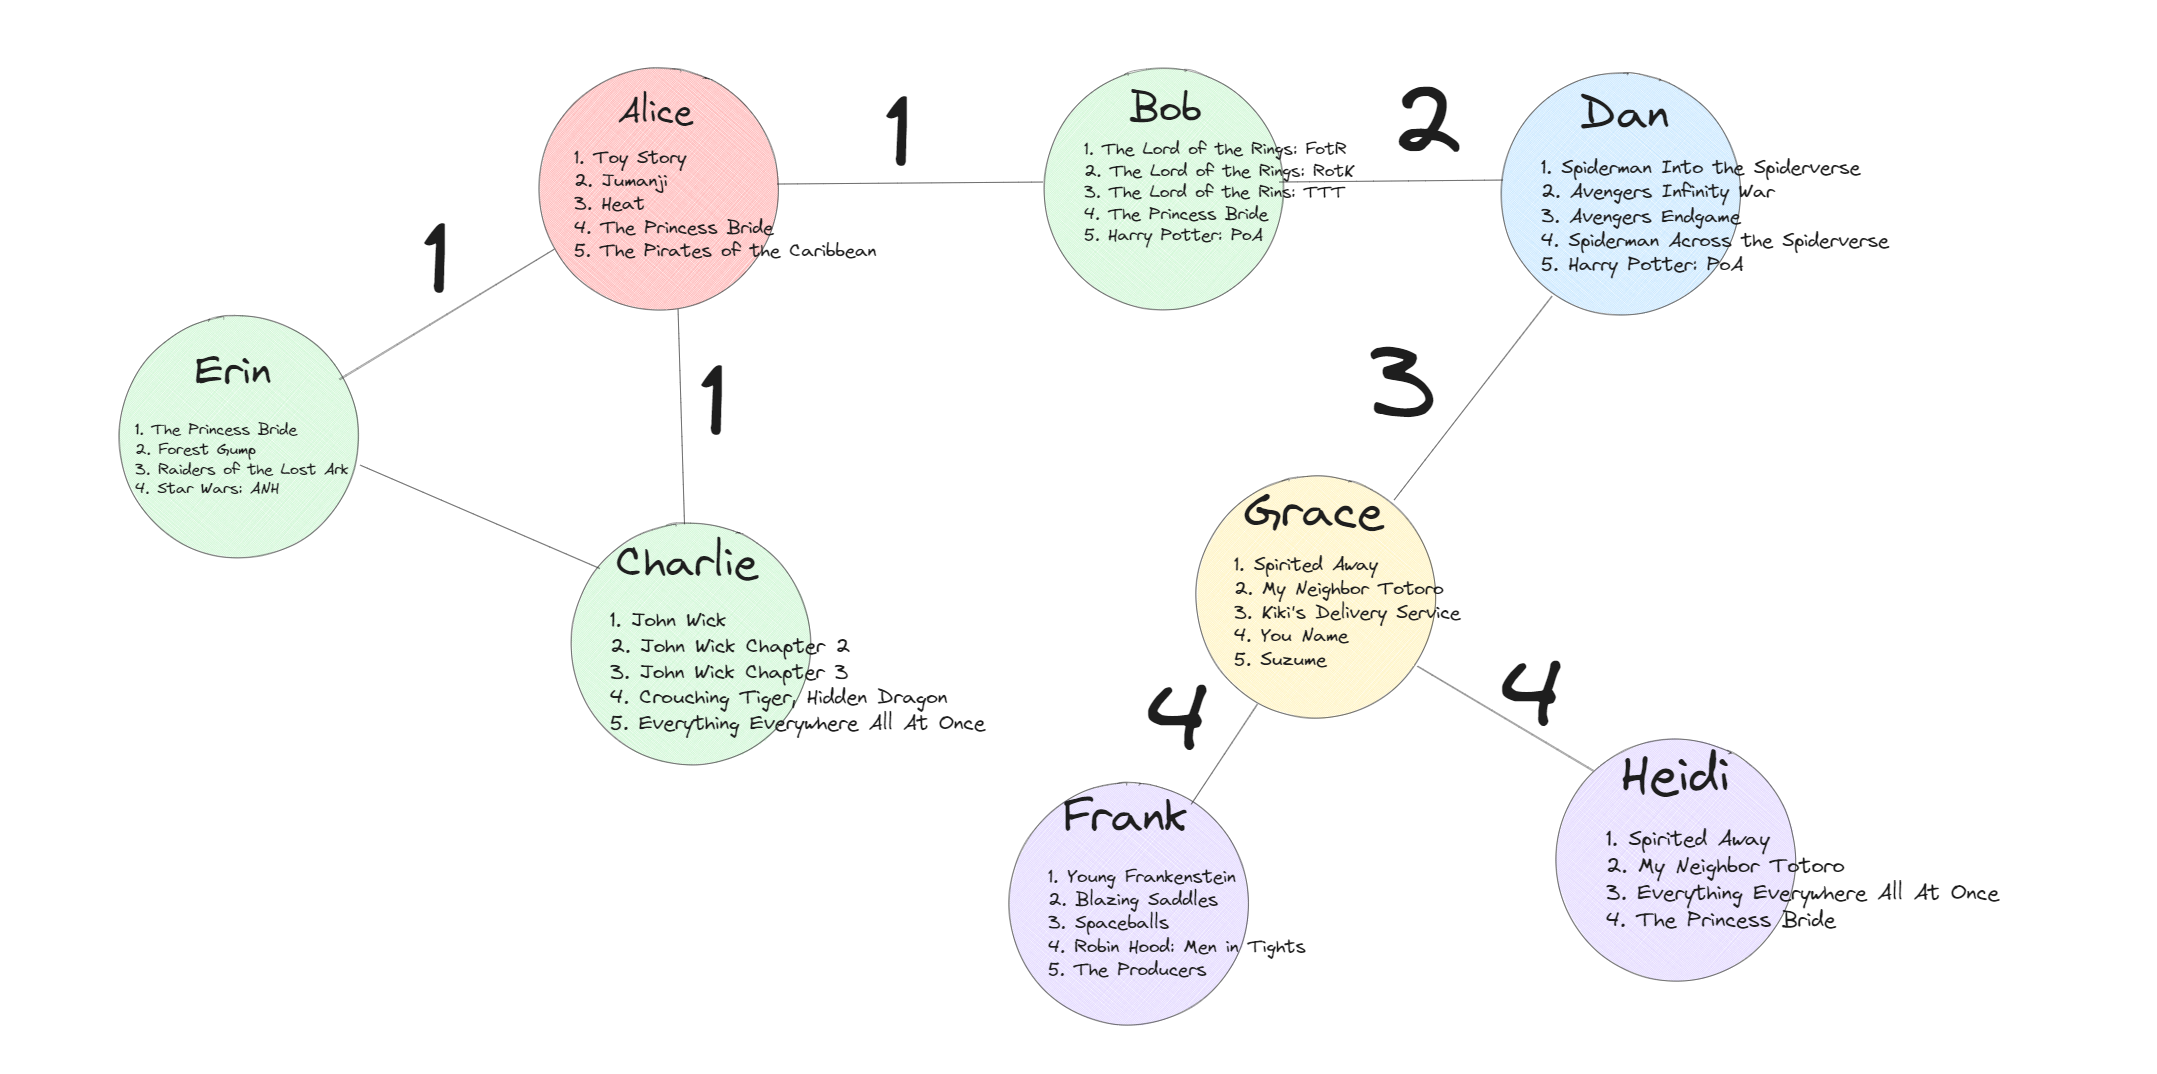
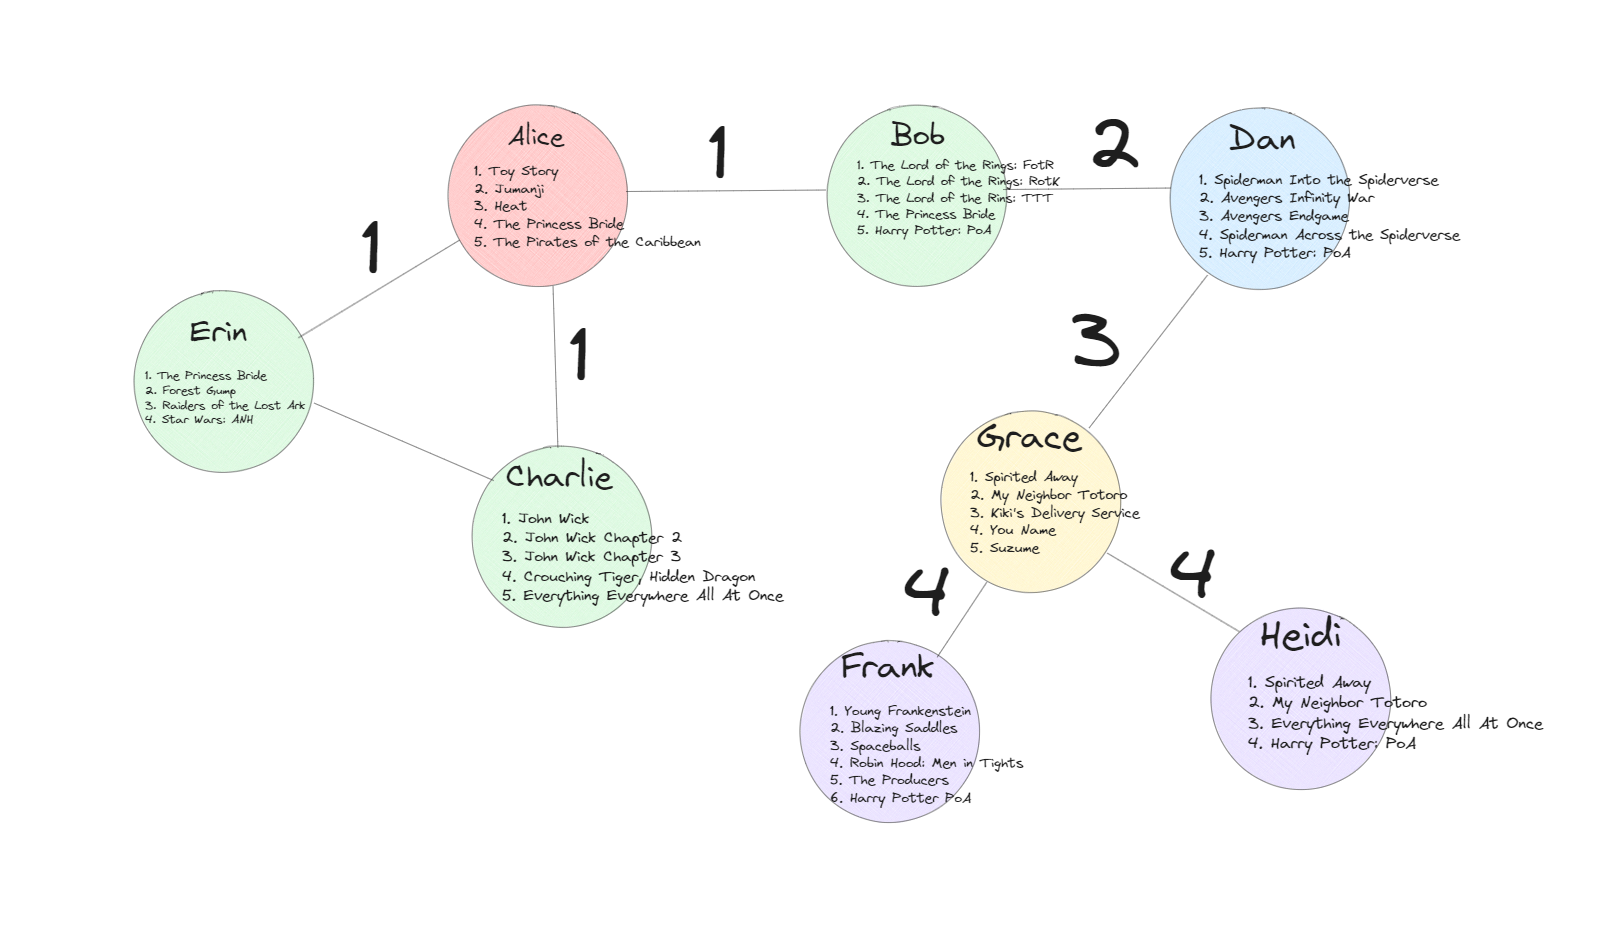
add walkthrough for traversing full network and add final throughts

diff --git a/test.py b/test.py
@@ -47,11 +47,12 @@ Frank.add_favorite_movie("Blazing Saddle")
 Frank.add_favorite_movie("Spaceballs")
 Frank.add_favorite_movie("Robin Hood: Men in Tights")
 Frank.add_favorite_movie("The Producers")
+Frank.add_favorite_movie("Harry Potter and the Prisoner of Azkaban")
 
 Heidi.add_favorite_movie("Spirited Away")
 Heidi.add_favorite_movie("My Neighbor Totoro")
 Heidi.add_favorite_movie("Everything Everywhere All At Once")
-Heidi.add_favorite_movie("The Princess Bride")
+Heidi.add_favorite_movie("Harry Potter and the Prisoner of Azkaban")
 
 # Add establish friendships
 Alice.add_friend(Erin)
@@ -63,4 +64,5 @@ Grace.add_friend(Frank)
 Grace.add_friend(Heidi)
 
 
-print(Alice.get_network_favorite_movie(3))
+print(Alice.get_network_favorite_movie(3)) # The Princess Bride
+print(Alice.get_network_favorite_movie()) # Harry Potter and the Prisoner of Azkaban

diff --git a/REAME.md b/REAME.md
@@ -54,12 +54,12 @@
         return keys[values.index(max(values))]
 ```
 
-- We can easily refactor the above code to take in an additional parameter, degrees
+- We can easily refactor the above code to take in an optional parameter, degree, defaulting to infinity if we want to search the whole network
 - Instead of enquing user objects, we can enque tuples where we include the current degree of separation from the user.
 - During the BFT, we can add a condition where we only enque users where the current degree of separation is less than the passed in argument
 
 ```python
-    def get_network_favorite_movie(degree):
+    def get_network_favorite_movie(degree=float("inf")):
         favorite_movies_counter = {}
         queue = deque()
         visited = set()
@@ -92,6 +92,8 @@
   - m is the number of unique movies in all the favorite movie lists
 
 ## Example
+
+### This section will walk you through the test example in test.py
 
 ![Example Network](image.png)
 
@@ -253,6 +255,123 @@
 
 - Now the queue is empty and we just need to go through favorite_movie_counter and find the movie that occurs most often, in this case The Princess Bride
 
+- We can continue this example to demonstrate searching through the whole network by picking up after processing Grace by enquing her friends
+
+```
+    favorite_movie_counter = {
+        Toy Story: 1,
+        Jumanji: 1,
+        Heat: 1,
+        The Princess Bride: 3,
+        The Pirates of the Caribbean: 1,
+        Forest Gump: 1,
+        Raiders of the Lost Ark: 1,
+        Star Wars ANH: 1,
+        John Wick: 1,
+        John Wick Chapter 2: 1,
+        John Wick Chapter 3: 1,
+        Crouching Tiger, Hidden Dragon: 1,
+        Everything, Everywhere, All At Once: 1,
+        The Lord of the Rings FotR: 1,
+        The Lord of the Rings RotK: 1,
+        The Lord of the Rings TTT: 1,
+        Harry Potter PoA: 2,
+        Spiderman Into the Spiderverse: 1,
+        Avengers Infinity War: 1,
+        Avengers Endgame: 1,
+        Spiderman Across the Spiderverse: 1,
+        Spirited Away: 1,
+        My Neighbor Totoro: 1,
+        Kiki's Delivery Service: 1,
+        Your Name: 1,
+        Suzume: 1
+    }
+    queue = ((4, Frank), (4, Heidi))
+    visited = {Alice, Erin, Charlie, Bob, Dan, Grace, Frank, Heidi}
+```
+
+- After processing Frank
+
+```
+    favorite_movie_counter = {
+        Toy Story: 1,
+        Jumanji: 1,
+        Heat: 1,
+        The Princess Bride: 3,
+        The Pirates of the Caribbean: 1,
+        Forest Gump: 1,
+        Raiders of the Lost Ark: 1,
+        Star Wars ANH: 1,
+        John Wick: 1,
+        John Wick Chapter 2: 1,
+        John Wick Chapter 3: 1,
+        Crouching Tiger, Hidden Dragon: 1,
+        Everything, Everywhere, All At Once: 1,
+        The Lord of the Rings FotR: 1,
+        The Lord of the Rings RotK: 1,
+        The Lord of the Rings TTT: 1,
+        Harry Potter PoA: 3,
+        Spiderman Into the Spiderverse: 1,
+        Avengers Infinity War: 1,
+        Avengers Endgame: 1,
+        Spiderman Across the Spiderverse: 1,
+        Spirited Away: 1,
+        My Neighbor Totoro: 1,
+        Kiki's Delivery Service: 1,
+        Your Name: 1,
+        Suzume: 1,
+        Young Frankenstein: 1,
+        Blazing Saddles: 1,
+        Spaceballs: 1,
+        Robinhood Men in Tights: 1,
+        The Producers: 1
+    }
+    queue = ((4, Heidi))
+    visited = {Alice, Erin, Charlie, Bob, Dan, Grace, Frank, Heidi}
+```
+
+- Finally Heidi
+
+```
+    favorite_movie_counter = {
+        Toy Story: 1,
+        Jumanji: 1,
+        Heat: 1,
+        The Princess Bride: 3,
+        The Pirates of the Caribbean: 1,
+        Forest Gump: 1,
+        Raiders of the Lost Ark: 1,
+        Star Wars ANH: 1,
+        John Wick: 1,
+        John Wick Chapter 2: 1,
+        John Wick Chapter 3: 1,
+        Crouching Tiger, Hidden Dragon: 1,
+        Everything, Everywhere, All At Once: 2,
+        The Lord of the Rings FotR: 1,
+        The Lord of the Rings RotK: 1,
+        The Lord of the Rings TTT: 1,
+        Harry Potter PoA: 4,
+        Spiderman Into the Spiderverse: 1,
+        Avengers Infinity War: 1,
+        Avengers Endgame: 1,
+        Spiderman Across the Spiderverse: 1,
+        Spirited Away: 2,
+        My Neighbor Totoro: 2,
+        Kiki's Delivery Service: 1,
+        Your Name: 1,
+        Suzume: 1,
+        Young Frankenstein: 1,
+        Blazing Saddles: 1,
+        Spaceballs: 1,
+        Robinhood Men in Tights: 1,
+        The Producers: 1
+    }
+    queue = ()
+    visited = {Alice, Erin, Charlie, Bob, Dan, Grace, Frank, Heidi}
+```
+
+- We can see that the new most popular movie is Harry Potter and the Prisoner of Azkaban
+
 ## Final Thoughts
 
--
+This was a fun exercise exploring undirected graph traversal. I had fun thinking about how I wanted to write the User class and am proud of the solution I came up with to account for degrees of separation. While there are probably some further optimizations to improve overall space and time complexities, this is a working solution that is readable and easily maintained. If there are perfomance issues that need to be addressed we can take the time to refactor, but for the time being it's pretty perfomrant and I don't see value in optimizing further ath this time.
